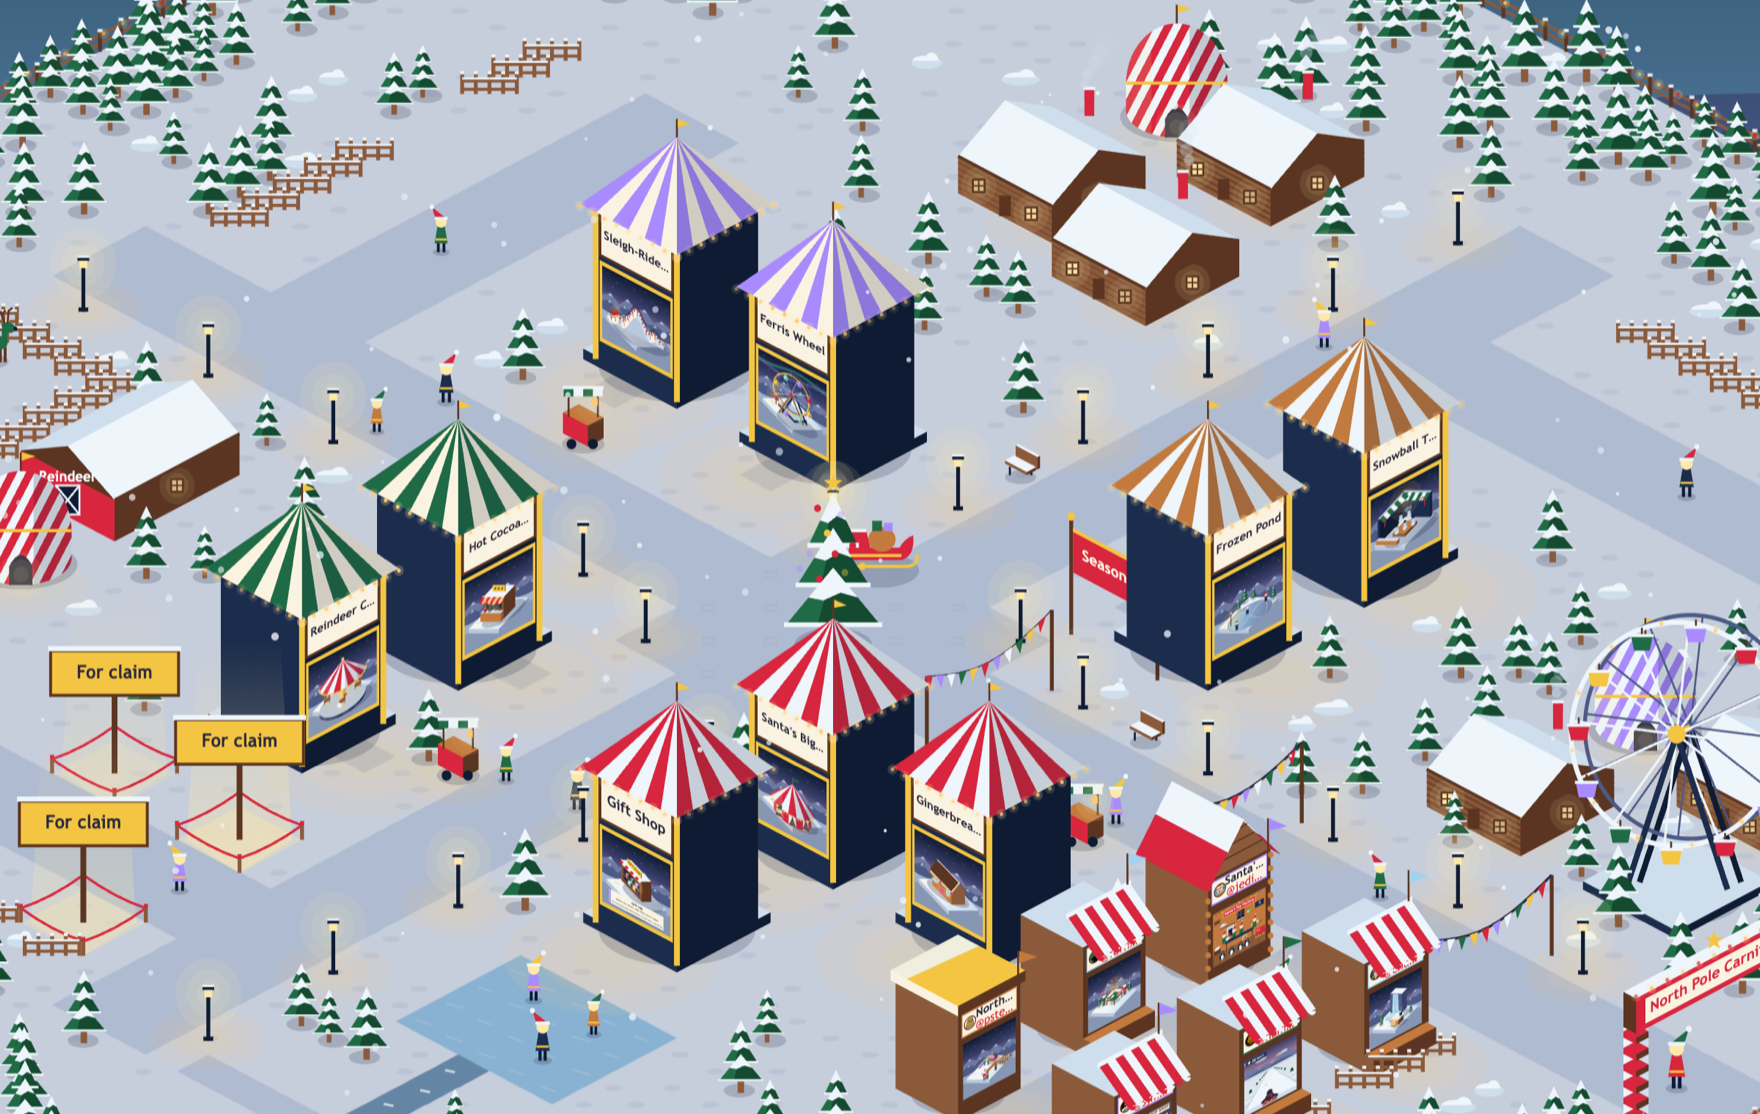
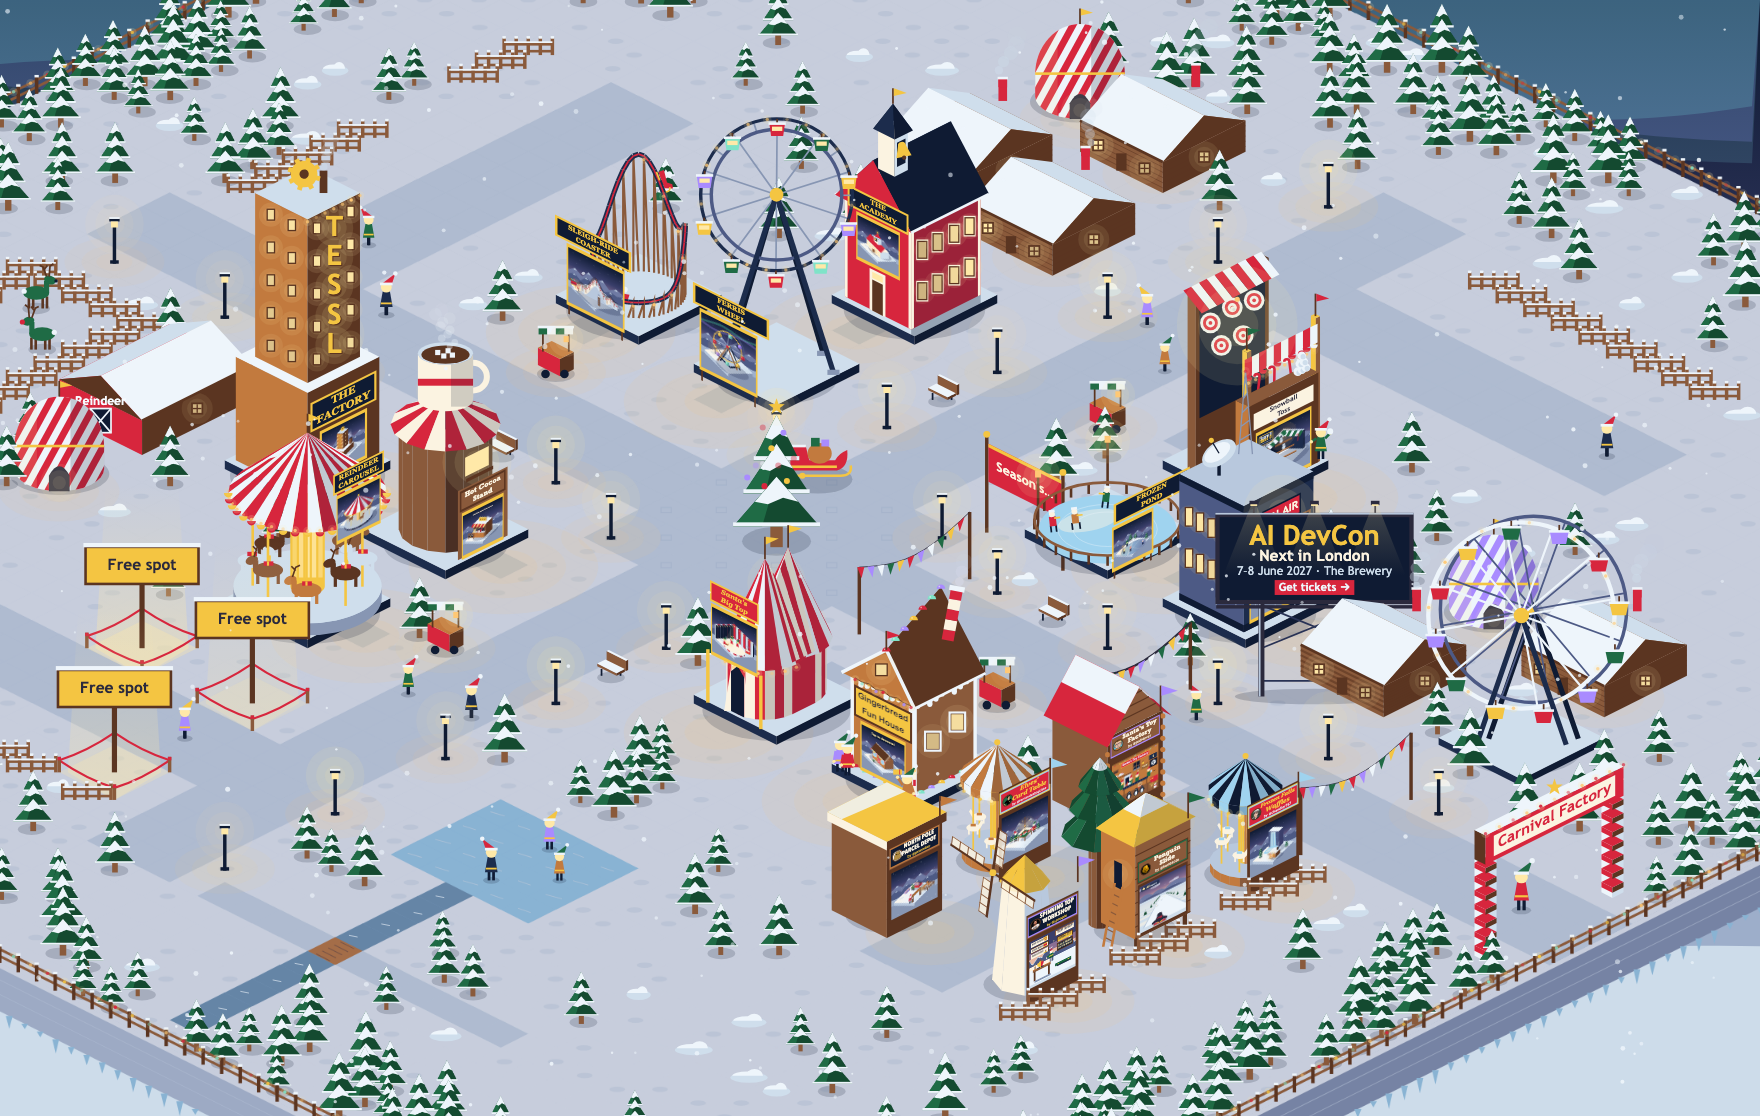
Show today's map in the README, and say the factory merges booths on its own
The README's picture showed the old map: For claim signs, the North Pole
Carnival arch and every attraction as the same striped stall. It now shows
the live map, with the Factory's tower, the AI DevCon billboard and the Free
spots. The tagline matches the repository's description.

diff --git a/README.md b/README.md
@@ -2,7 +2,7 @@
 
 <p align="center">
   <strong>A Christmas carnival that a software factory builds, one booth at a time.</strong><br />
-  Describe your booth in an issue. An agent builds it, checks it and opens the pull request.
+  Ask for a booth in a GitHub issue. A software factory builds it, tests it, reviews it and puts it on the map, with no one merging it.
 </p>
 
 <h3 align="center">
@@ -18,7 +18,7 @@
 
 <p align="center">
   <a href="https://ainativedev.github.io/Carnival-Factory/">
-    <img alt="The Carnival Factory map of the North Pole at dusk, in isometric 3D: striped carnival tents round a decorated tree, wooden booth stalls with their owners' pennants, a ferris wheel, snowy log cabins, a frozen pond with skating elves, and free spots waiting for a booth" src="docs/north-pole.png" width="880" />
+    <img alt="The Carnival Factory map of the North Pole at dusk, in isometric 3D: the Factory's tower with TESSL down its front, a roller coaster, a ferris wheel, the Academy, a big top and a carousel round a decorated tree, the AI DevCon billboard, participants' booths with their drawings on their fronts, a frozen pond with skating elves, three free spots waiting for a booth, and the Carnival Factory arch at the entrance" src="docs/north-pole.png" width="880" />
   </a>
 </p>
 
